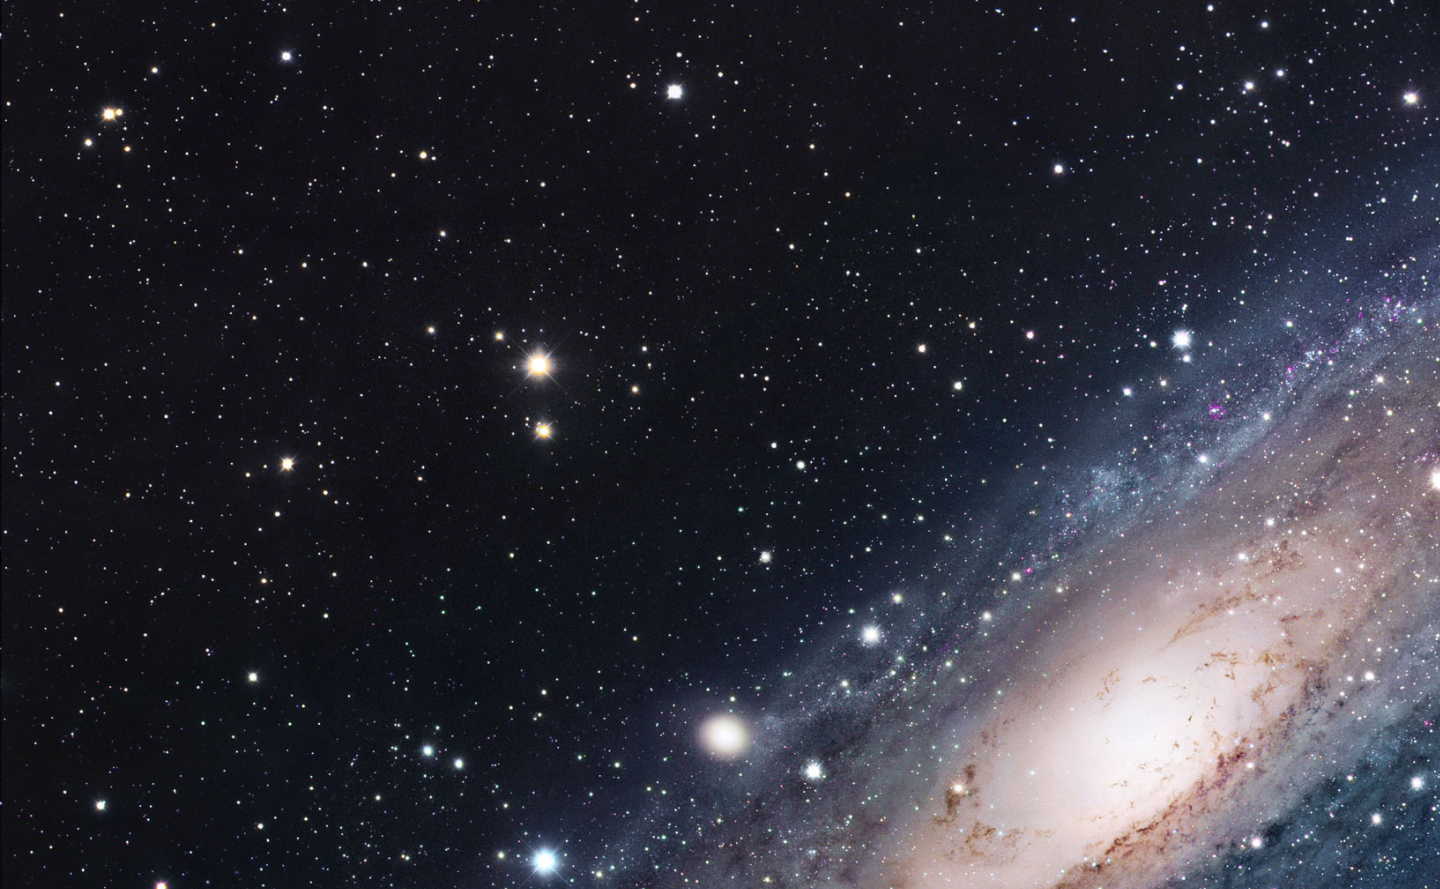
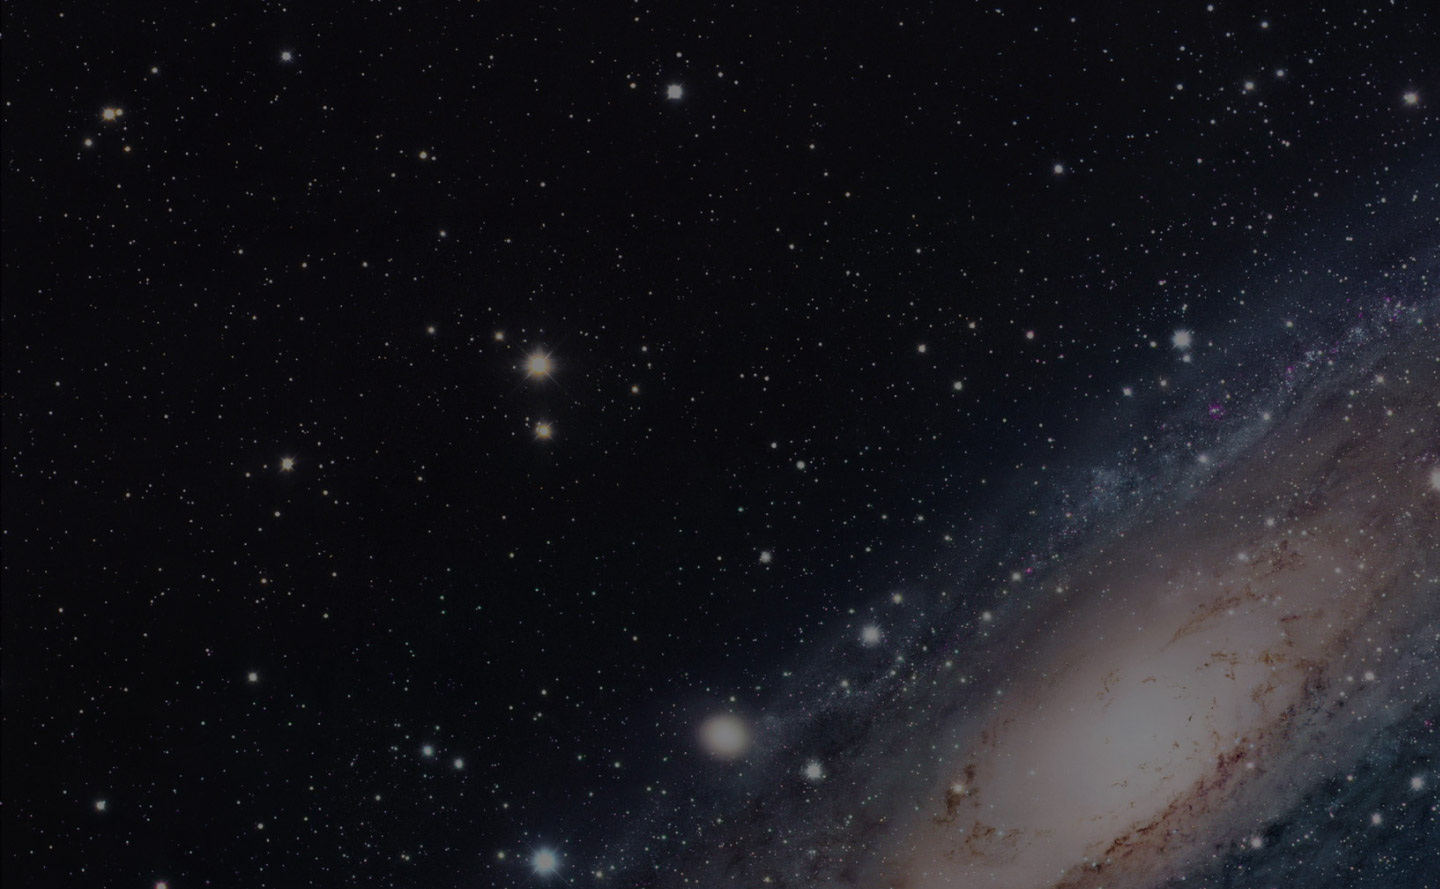
first index

diff --git a/src/css/main.css b/src/css/main.css
@@ -38,6 +38,24 @@ a {
 
 /* CSS */
 
+#loader {
+    width: 100vw;
+    height: 100vh;
+    background: red;
+    position: fixed;
+    top: 0;
+    left: 0;
+    display: flex;
+    align-items: center;
+    justify-content: center;
+    z-index: 10000;
+    transition: transform 1s ease-in-out;
+}
+
+#loader.active {
+    transform: translateY(-100vw);
+}
+
 #marker {
     position: absolute;
     bottom: 10px;
@@ -117,21 +135,42 @@ a {
 
 .header__links a {
     font-size: 25px;
-    margin: 5px
+    margin: 5px;
+    transition: transform 0.3s ease-in-out;
+}
+
+.header__links a i {
+    transition: transform 0.3s ease-in-out;
+}
+
+.header__links a:hover i {
+    transform: translateY(-5px);
 }
 
 .hidden-content {
     transform: translateX(100vw);
-    transition: transform 0.3s ease-in-out;
+    transition: transform 0.5s ease-in-out;
 }
 
 #index {
-    background-image: url(./../img/index-bg-2.jpg);
+    background-image: url(./../img/index-bg.jpg);
     z-index: 1;
 }
 
-#index * {
-    opacity: 1;
+#index .container {
+    width: 95%;
+    height: 80%;
+    display: flex;
+    flex-direction: column;
+    justify-content: center;
+}
+
+#index h1 {
+    font-size: 72px;
+}
+
+#index h2 {
+    font-size: 48px;
 }
 
 #about {
@@ -193,6 +232,11 @@ a {
 .roboto-mono-light {
     font-family: 'Roboto Mono', monospace;
     font-weight: 300;
+}
+
+.roboto-mono-bold {
+    font-family: 'Roboto Mono', monospace;
+    font-weight: 700;
 }
 
 .p-abs {

diff --git a/index.html b/index.html
@@ -16,6 +16,9 @@
     <link rel="stylesheet" href="https://use.fontawesome.com/releases/v5.15.1/css/all.css" integrity="sha384-vp86vTRFVJgpjF9jiIGPEEqYqlDwgyBgEF109VFjmqGmIY/Y4HV4d3Gp2irVfcrp" crossorigin="anonymous">
 </head>
 <body>
+
+    <div id="loader"></div>
+
     <header id="header">
         <nav class="header_nav">
             <a data-href="#index" id="logo" href="#" class="header__logo">
@@ -38,8 +41,9 @@
 
     <main class="full p-rel">
         <section id="index" class="full-percentage p-abs bg-pannel">
-            <div class="container full-percentage">
-                <h2>Index</h2>
+            <div class="container">
+                <h1 class="roboto-mono-bold t-uppercase">Maxime Lecouturier.</h1>
+                <h2 class="roboto-mono-bold t-uppercase">Web Développeur</h2>
             </div>
         </section>
         <section id="about" class="full-percentage p-abs bg-pannel hidden-content">
@@ -49,7 +53,7 @@
         </section>
         <section id="parcours" class="full-percentage p-abs bg-pannel hidden-content">
             <div class="container full-percentage">
-                <h2>Parcours</h2>
+                
             </div>
         </section>
         <section id="realisations" class="full-percentage p-abs bg-pannel hidden-content">

diff --git a/src/js/app.js b/src/js/app.js
@@ -2,6 +2,7 @@ const links = document.querySelectorAll('.header__menu li a');
 const pannel = document.querySelectorAll('main > section');
 const logo = document.querySelector('#logo');
 const marker = document.querySelector('#marker');
+const loader = document.querySelector('#loader');
 
 
 //function
@@ -35,7 +36,15 @@ function markerPosition(e) {
     }
 }
 
+function loaderOff() {
+    loader.classList.add('active');
+}
+
 //event
+
+window.addEventListener('load', ()=>{
+    loaderOff();
+})
 
 for (let elm of links) {
     elm.addEventListener('click', (e)=>{
